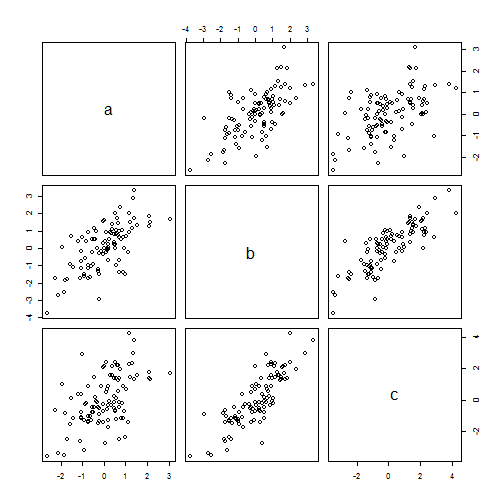
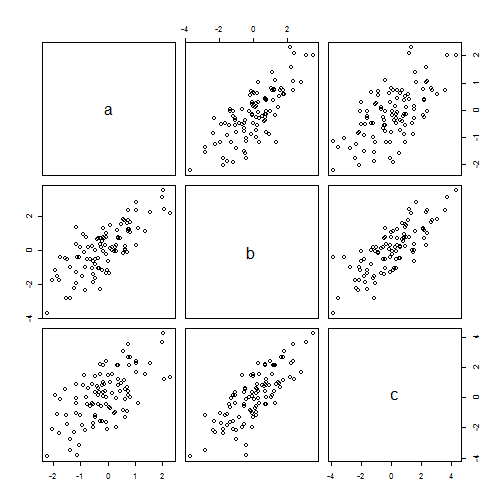
Assignment 0

diff --git a/SRT411-Assignment-0.md b/SRT411-Assignment-0.md
@@ -6,7 +6,7 @@ Output: html_document
 ---
 <br>
 <br>
-<b>Github Account:</b> mershar
+<b>Github Account:</b> http://www.github.com/mershar/
 <br>
 <br>
 
@@ -144,7 +144,7 @@ sd(t$a+t$b+t$c)
 ```
 
 ```
-## [1] 3.499233
+## [1] 3.593928
 ```
 
 <hr>
